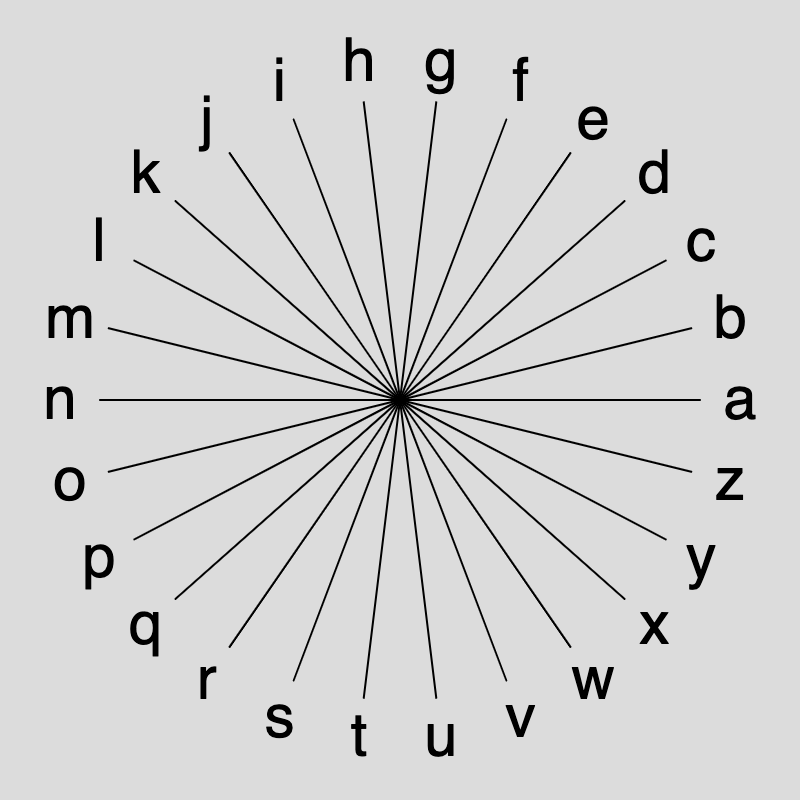
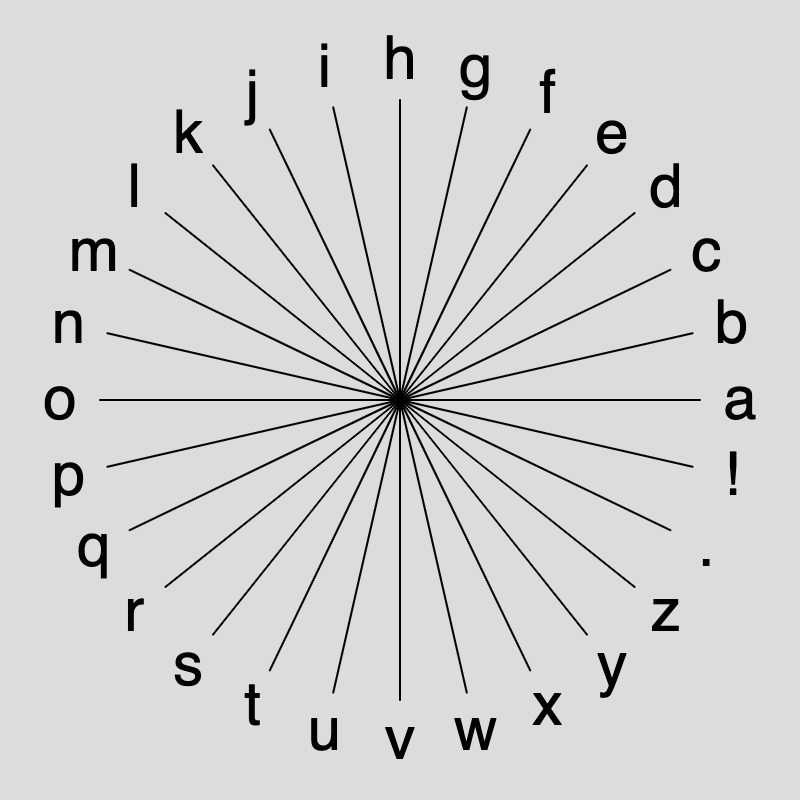
fine tunning

diff --git a/sketch.js b/sketch.js
@@ -1,4 +1,4 @@
-const alphabet = 'abcdefghijklmnopqrstuvwxyz'.split('');
+const alphabet = 'abcdefghijklmnopqrstuvwxyz.!'.split('');
 
 function setup() {
   createCanvas(400, 400);
@@ -20,10 +20,12 @@ function draw() {
     x = newX; 
     y = newY;
   }
+
+  drawKey();
 }
 
 function getCharAngle(character) {
-  return map(alphabet.indexOf(character), 0, 26, TWO_PI, 0);
+  return map(alphabet.indexOf(character.toLowerCase()), 0, 28, TWO_PI, 0);
 }
 
 function drawKey()

diff --git a/index.html b/index.html
@@ -4,7 +4,7 @@
     <meta charset="utf-8" />
     <meta name="viewport" content="width=device-width, initial-scale=1.0">
 
-    <title>Sketch</title>
+    <title>Drawing Poems</title>
 
     <link rel="stylesheet" type="text/css" href="style.css">
 
